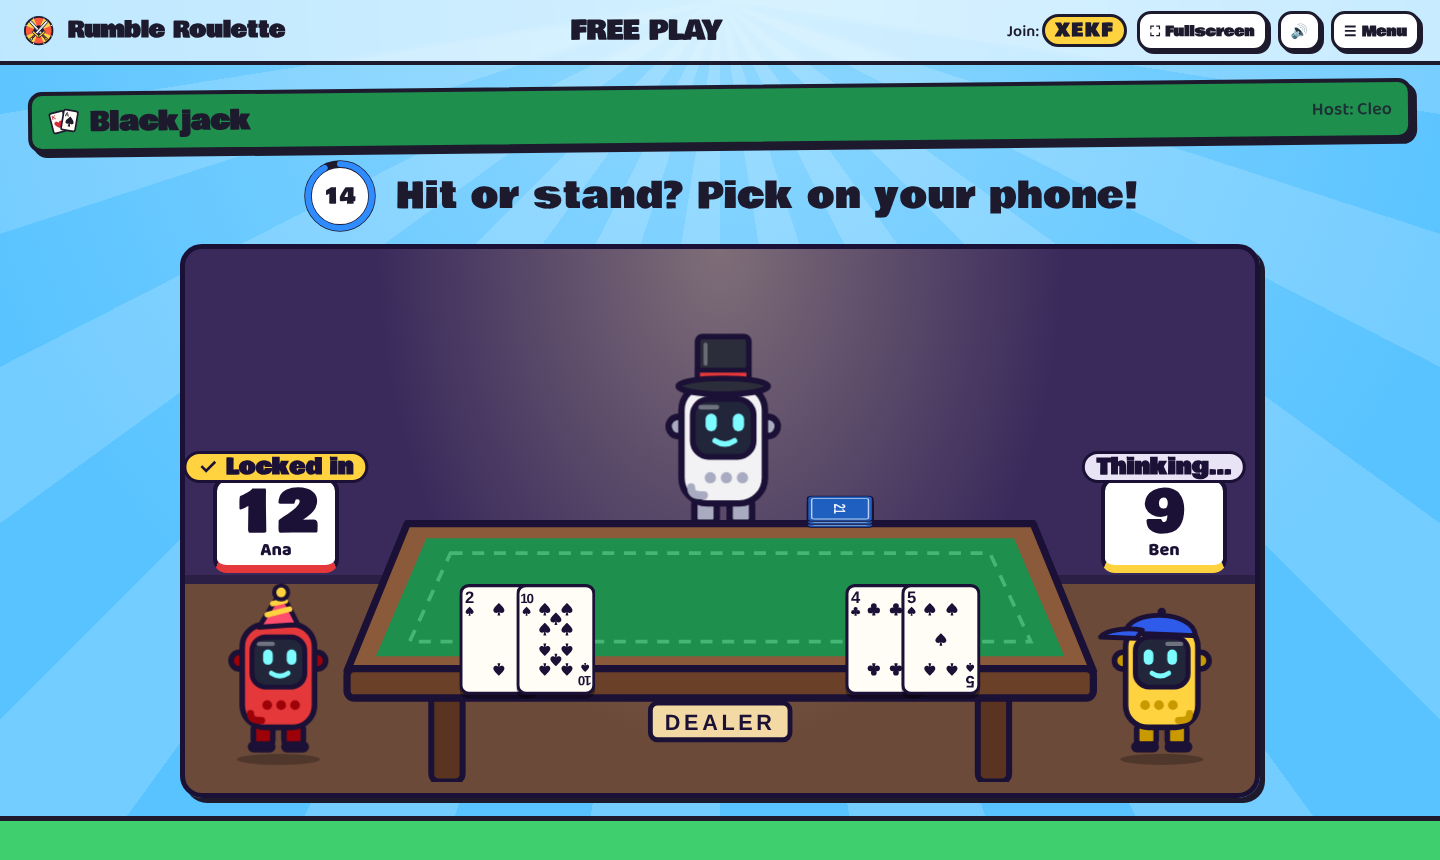
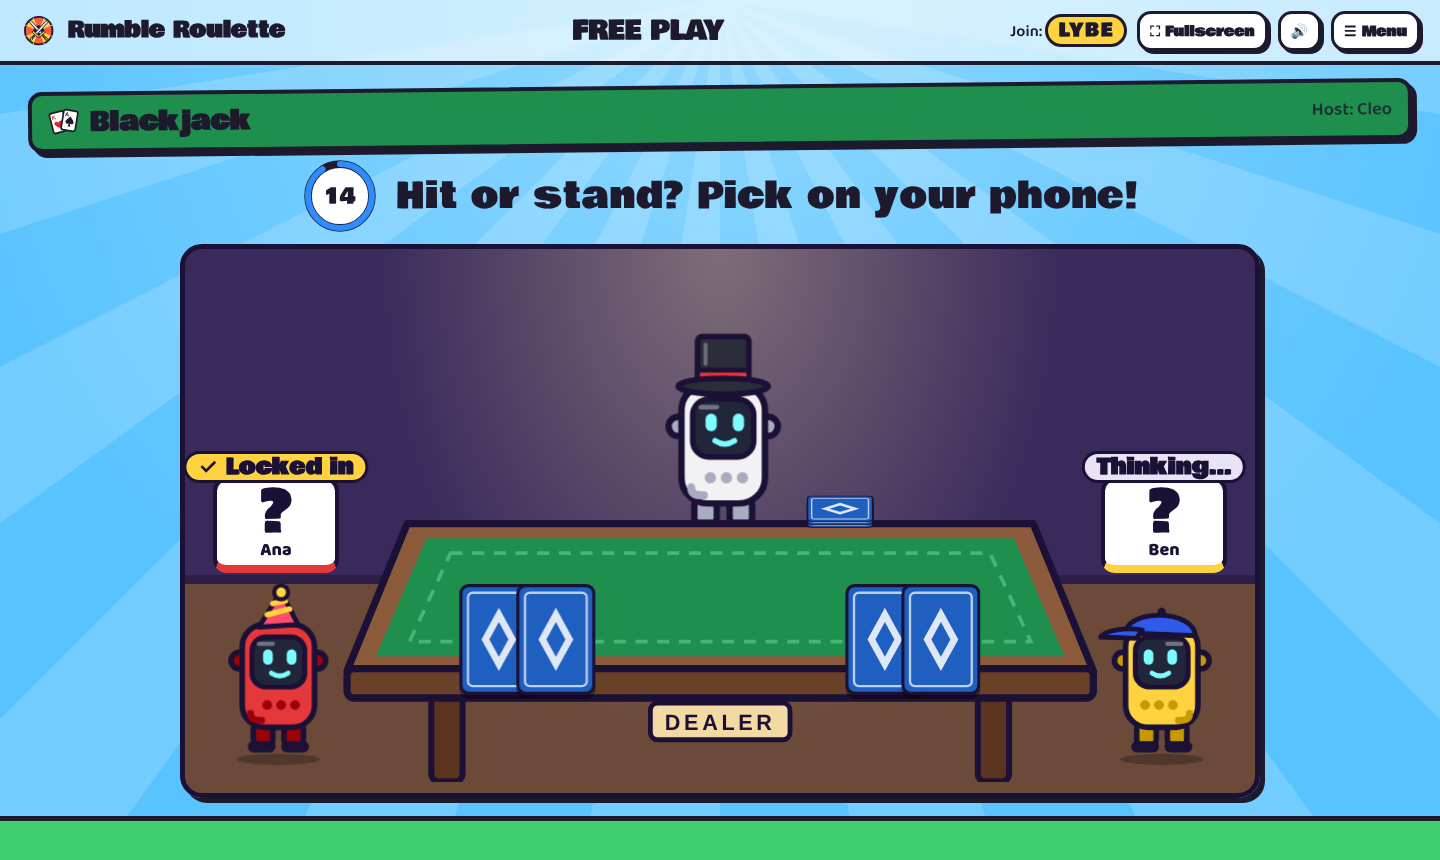
Blackjack: keep each hand secret until the end
The big screen and the other duelist's phone now show card backs and a
'?' total; only your own phone shows your cards. Both hands turn over
when the hand is settled (win or push). 21 no longer stands on its own,
since stopping without a pick would give it away.

Claude-Session: https://claude.ai/code/session_017CcADtHK8JHKkARGB6it8A

diff --git a/src/games/blackjack/views.tsx b/src/games/blackjack/views.tsx
@@ -122,30 +122,35 @@ export function PlayingCard({ card, className, style }: { card: Card; className?
   );
 }
 
-export function BlackjackBack({ className }: { className?: string }) {
+export function BlackjackBack({ className, style }: { className?: string; style?: CSSProperties }) {
   return (
-    <svg className={`bj-back${className ? ` ${className}` : ''}`} viewBox="0 0 100 140" aria-hidden="true">
+    <svg className={`bj-back${className ? ` ${className}` : ''}`} style={style} viewBox="0 0 100 140" aria-hidden="true">
       <rect x="2" y="2" width="96" height="136" rx="10" fill="#1f5fbf" stroke={INK} strokeWidth="4" />
       <rect x="11" y="11" width="78" height="118" rx="6" fill="none" stroke="#fff" strokeWidth="3" opacity="0.7" />
-      <text x="50" y="82" textAnchor="middle" fontSize="34" fontWeight="900" fill="#fff" opacity="0.9" fontFamily="Arial, sans-serif">
-        21
-      </text>
+      <path d="M50 30 L72 70 L50 110 L28 70 Z" fill="#fff" opacity="0.85" />
+      <path d="M50 48 L62 70 L50 92 L38 70 Z" fill="#1f5fbf" />
     </svg>
   );
 }
 
 /** "17", or "7 / 17" while an Ace could still count either way. */
-export function totalText(h: Hand, view?: BlackjackView) {
+export function totalText(h: Hand, view?: BlackjackView, hidden = false) {
   // Wait for the cards to land before giving the total away.
   if (view?.status === 'dealing') return '…';
+  if (view && hidden && !faceUp(view)) return '?';
   const { total, soft } = handTotal(h.cards);
   return soft && total < 21 ? `${total - 10} / ${total}` : `${total}`;
 }
 
 const ended = (view: BlackjackView) => view.status === 'reveal' || view.status === 'done';
+/**
+ * Hands stay face down on the big screen and the other duelist's phone, so nobody can play to the
+ * other hand. Both are turned over once the hand is settled.
+ */
+const faceUp = (view: BlackjackView) => view.status === 'push' || ended(view);
 
-/** What a duelist is up to right now, as one short tag. */
-function tag(view: BlackjackView, side: Side): { cls: string; text: string } | null {
+/** What a duelist is up to right now, as one short tag. A `hidden` hand never gives its 21 away. */
+function tag(view: BlackjackView, side: Side, hidden = false): { cls: string; text: string } | null {
   if (view.status === 'dealing') return null;
   const h = view.hands[side];
   const total = handTotal(h.cards).total;
@@ -154,7 +159,7 @@ function tag(view: BlackjackView, side: Side): { cls: string; text: string } | n
     const c = view.shown[side]!;
     return { cls: c, text: c === 'hit' ? 'HIT!' : view.timedOut[side] ? 'STAND (time!)' : 'STAND' };
   }
-  if (total === 21) return { cls: 'twentyone', text: h.cards.length === 2 ? 'BLACKJACK!' : '21!' };
+  if (total === 21 && !(hidden && !faceUp(view))) return { cls: 'twentyone', text: h.cards.length === 2 ? 'BLACKJACK!' : '21!' };
   if (h.stood) return { cls: 'stand', text: 'STAND' };
   if (view.status === 'choosing') return view.locked[side] ? { cls: 'locked', text: '✓ Locked in' } : { cls: 'thinking', text: 'Thinking…' };
   return null;
@@ -202,18 +207,17 @@ function useHostSounds(view: BlackjackView) {
 }
 
 /** A fanned-out hand. On the first deal the cards fly in one at a time, a, b, a, b. */
-function HandCards({ hand, side, dealing, className }: { hand: Hand; side: Side; dealing: boolean; className?: string }) {
+/** `secret` hands are face down until the hand is settled, then turn over. */
+function HandCards({ hand, side, dealing, secret = false, view, className }: { hand: Hand; side: Side; dealing: boolean; secret?: boolean; view?: BlackjackView; className?: string }) {
+  const hidden = secret && !!view && !faceUp(view);
   const n = hand.cards.length;
   return (
-    <div className={`bj-hand${isBust(hand) ? ' bust' : ''}${className ? ` ${className}` : ''}`} style={{ ['--n' as string]: n }}>
-      {hand.cards.map((card, i) => (
-        <PlayingCard
-          key={i}
-          card={card}
-          className="bj-dealt"
-          style={{ ['--i' as string]: i, animationDelay: dealing && i < 2 ? `${(i * 2 + (side === 'b' ? 1 : 0)) * 0.45}s` : undefined }}
-        />
-      ))}
+    <div className={`bj-hand${isBust(hand) && !hidden ? ' bust' : ''}${className ? ` ${className}` : ''}`} style={{ ['--n' as string]: n }}>
+      {hand.cards.map((card, i) => {
+        const style = { ['--i' as string]: i, animationDelay: dealing && i < 2 ? `${(i * 2 + (side === 'b' ? 1 : 0)) * 0.45}s` : undefined };
+        if (hidden) return <BlackjackBack key={`b${i}`} className="bj-card bj-dealt" style={style} />;
+        return <PlayingCard key={`f${i}`} card={card} className={secret ? 'bj-flip' : 'bj-dealt'} style={style} />;
+      })}
     </div>
   );
 }
@@ -222,12 +226,12 @@ function Seat({ view, people, side }: { view: BlackjackView; people: DuelPeople;
   const p = people[side];
   const won = ended(view) && view.winner === side;
   const lost = ended(view) && view.winner === otherSide(side);
-  const t = tag(view, side);
+  const t = tag(view, side, true);
   const pose = won ? 'win' : lost || isBust(view.hands[side]) ? 'lose' : 'idle';
   return (
     <div className={`sn-player sn-player-${side}${won ? ' won' : ''}`} style={{ ['--me' as string]: colorById(p.color).main }}>
       <div className="sn-score">
-        <b className={isBust(view.hands[side]) ? 'bj-bust-total' : undefined}>{totalText(view.hands[side], view)}</b>
+        <b className={isBust(view.hands[side]) ? 'bj-bust-total' : undefined}>{totalText(view.hands[side], view, true)}</b>
         <span className="sn-name">{p.name}</span>
         {t && (
           <span key={t.text} className={`bj-tag bj-tag-${t.cls}`}>
@@ -242,7 +246,7 @@ function Seat({ view, people, side }: { view: BlackjackView; people: DuelPeople;
   );
 }
 
-/** The Snap! table again: a duelist at each end, the dealer behind, and both hands face up on the felt. */
+/** The Snap! table again: a duelist at each end, the dealer behind, and both hands face down on the felt. */
 function Table({ view, people }: { view: BlackjackView; people: DuelPeople }) {
   const dealer = dealerLook(people);
   const dealing = view.status === 'dealing';
@@ -259,8 +263,8 @@ function Table({ view, people }: { view: BlackjackView; people: DuelPeople }) {
         <BlackjackBack />
       </div>
       <div key={view.hand} className="bj-hands">
-        <HandCards hand={view.hands.a} side="a" dealing={dealing} className="bj-hand-a" />
-        <HandCards hand={view.hands.b} side="b" dealing={dealing} className="bj-hand-b" />
+        <HandCards hand={view.hands.a} side="a" dealing={dealing} secret view={view} className="bj-hand-a" />
+        <HandCards hand={view.hands.b} side="b" dealing={dealing} secret view={view} className="bj-hand-b" />
       </div>
       {view.status === 'push' && (
         <div className="sn-nope bj-push">
@@ -319,7 +323,7 @@ export const blackjackViews: MinigameViews<BlackjackView> = {
     const other = otherSide(side);
     const me = view.hands[side];
     const canPick = view.status === 'choosing' && isActive(me) && !view.locked[side];
-    const t = tag(view, other);
+    const t = tag(view, other, true);
     return (
       <div className="phone-center bj-phone">
         <div className="phone-row">
@@ -329,10 +333,10 @@ export const blackjackViews: MinigameViews<BlackjackView> = {
         <div className="bj-phone-them" style={{ borderColor: colorById(people[other].color).main }}>
           <div className="bj-phone-who">
             <b>{people[other].name}</b>
-            <span>{totalText(view.hands[other], view)}</span>
+            <span>{totalText(view.hands[other], view, true)}</span>
             {t && <span className={`bj-tag bj-tag-${t.cls}`}>{t.text}</span>}
           </div>
-          <HandCards hand={view.hands[other]} side={other} dealing={false} className="bj-hand-small" />
+          <HandCards hand={view.hands[other]} side={other} dealing={false} secret view={view} className="bj-hand-small" />
         </div>
         <div className="bj-phone-me" style={{ borderColor: colorById(people[side].color).main }}>
           <HandCards key={view.hand} hand={me} side={side} dealing={false} className="bj-hand-mine" />

diff --git a/src/games/blackjack/logic.ts b/src/games/blackjack/logic.ts
@@ -27,7 +27,7 @@ export const REVEAL_MS = 5_000;
 
 export interface Hand {
   cards: Card[];
-  /** Stood (by choice, by running out of time, or by reaching 21): no more cards. */
+  /** Stood (by choice or by running out of time): no more cards. */
   stood: boolean;
 }
 
@@ -83,8 +83,11 @@ export function handTotal(cards: Card[]) {
 }
 
 export const isBust = (h: Hand) => handTotal(h.cards).total > 21;
-/** Still choosing: not stood, not bust, and not already on 21. */
-export const isActive = (h: Hand) => !h.stood && !isBust(h) && handTotal(h.cards).total < 21;
+/**
+ * Still choosing: not stood and not bust. Even on 21 you still pick (Stand, surely), because stopping
+ * on your own would tell the other duelist you've got 21.
+ */
+export const isActive = (h: Hand) => !h.stood && !isBust(h);
 
 export function freshDeck(rng: () => number): Card[] {
   const deck = SUITS.flatMap((suit) => RANKS.map((rank) => ({ rank, suit })));
@@ -161,7 +164,7 @@ export const blackjackLogic: MinigameLogic<BlackjackState, BlackjackView> = {
   info: {
     id: 'blackjack',
     name: 'Blackjack',
-    rules: `You both get two cards. Each turn, secretly pick HIT (take another card) or STAND (stop) on your phone. Nobody sees the picks until you've both chosen. Closest to 21 without going over wins!`,
+    rules: `You both get two cards that only you can see, on your phone. Each turn, secretly pick HIT (take another card) or STAND (stop). The picks are shown once you've both chosen, and the cards are turned over at the end. Closest to 21 without going over wins!`,
     refereeDuty: 'Nothing to judge: the game scores itself. Enjoy the poker faces!',
     icon: '🂡',
     color: '#1f8f4e',

diff --git a/src/games/blackjack/blackjack.test.ts b/src/games/blackjack/blackjack.test.ts
@@ -113,10 +113,13 @@ describe('Blackjack', () => {
     expect(s.status).toBe('push');
   });
 
-  it('21 stops taking cards, and running out of time counts as Stand', () => {
+  it('21 still has to pick, so stopping never gives it away, and running out of time counts as Stand', () => {
     let s = table(['A', '5'], ['10', '3'], ['5']);
     s = play(pick(pick(s, 'a', 'hit'), 'b', 'stand'));
-    // A hit to 21 and B has stood: nobody is left to choose.
+    // A hit to 21, but still has to choose like anyone else.
+    expect(handTotal(s.hands.a.cards).total).toBe(21);
+    expect(s.status).toBe('choosing');
+    s = play(pick(s, 'a', 'stand'));
     expect(s.status).toBe('reveal');
     expect(s.winner).toBe('a');
 

diff --git a/src/styles.css b/src/styles.css
@@ -4093,6 +4093,17 @@ button.wd-person svg .character-body > ellipse {
   }
 }
 
+.bj-flip {
+  animation: bj-flip 0.45s ease-out both;
+  animation-delay: calc(var(--i) * 0.08s);
+}
+
+@keyframes bj-flip {
+  from {
+    transform: rotateY(90deg);
+  }
+}
+
 .bj-hand.bust .bj-card {
   filter: grayscale(0.7) brightness(0.8) drop-shadow(0 4px 0 rgba(0, 0, 0, 0.35));
 }
